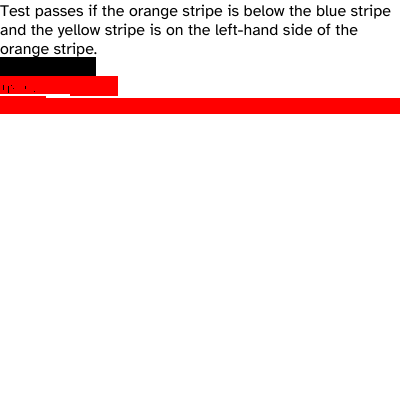
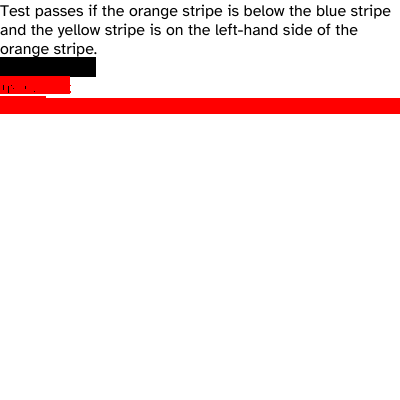
Fix float positioning for inline floated elements
Floated inline elements were being positioned at the current inline X
position instead of the containing block's left edge.

Fix: Pass containing block's left edge as X parameter for floated children
instead of inlineCtx.LineX.

Impact:
- box-generation-001.xht: 6.5% → 5.9%

Remaining issue: Inline content that comes BEFORE a float in document
order doesn't wrap around the float. This would require retroactive
repositioning or two-pass layout, which is a larger architectural change.

Changed region(s): [[0.15, 0.18, 0.3, 0.24]]

diff --git a/pkg/layout/layout.go b/pkg/layout/layout.go
@@ -723,9 +723,14 @@ func (le *LayoutEngine) layoutNode(node *html.Node, x, y, availableWidth float64
 			childDisplay := childStyle.GetDisplay()
 
 			// Layout the child
+			// For floated elements, use containing block's left edge, not current inline position
+			childX := inlineCtx.LineX
+			if childStyle.GetFloat() != css.FloatNone {
+				childX = box.X + border.Left + padding.Left
+			}
 			childBox := le.layoutNode(
 				child,
-				inlineCtx.LineX,
+				childX,
 				inlineCtx.LineY,
 				childAvailableWidth,
 				computedStyles,
@@ -880,8 +885,14 @@ func (le *LayoutEngine) layoutNode(node *html.Node, x, y, availableWidth float64
 
 					box.Children = append(box.Children, childBox)
 
-					// Advance Y for block elements
+					// For floats on the current inline line, update LineX so subsequent content wraps
 					childFloatType := childBox.Style.GetFloat()
+					if childFloatType != css.FloatNone && childBox.Y == inlineCtx.LineY {
+						// Float is on the current line - update LineX to account for it
+						le.ensureLineXClearsFloats(inlineCtx, box, border, padding)
+					}
+
+					// Advance Y for block elements
 					if childBox.Position != css.PositionAbsolute && childBox.Position != css.PositionFixed && childFloatType == css.FloatNone {
 						// Margin-collapse-through: collect margins from collapse-through elements
 						// and combine them with the next non-collapse-through sibling's margins.
